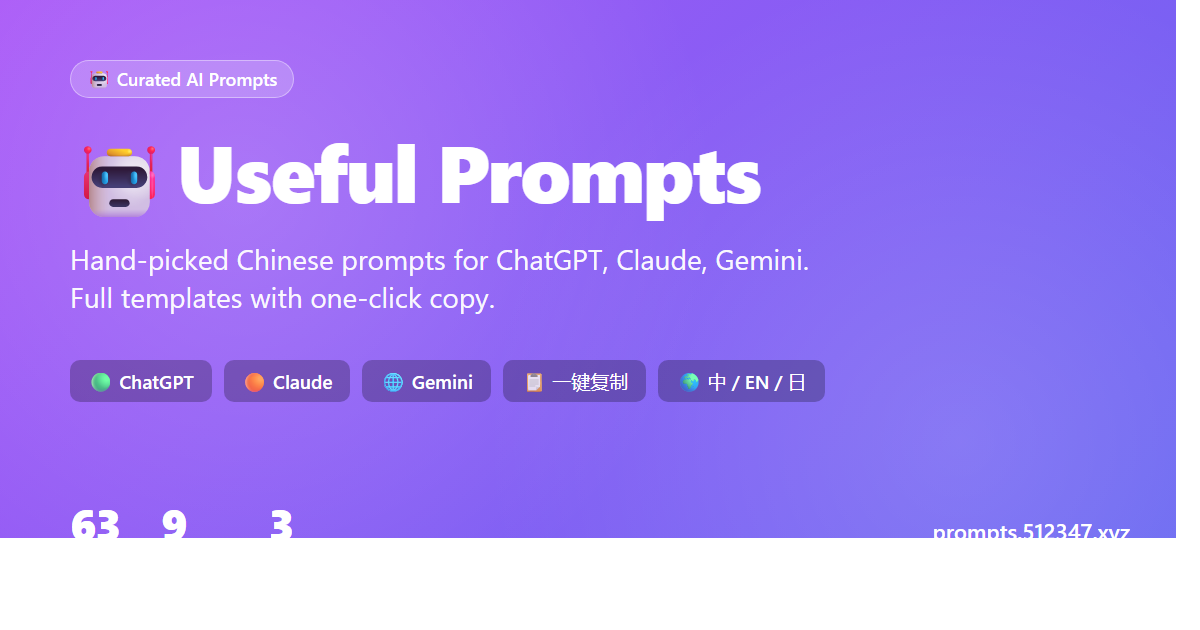
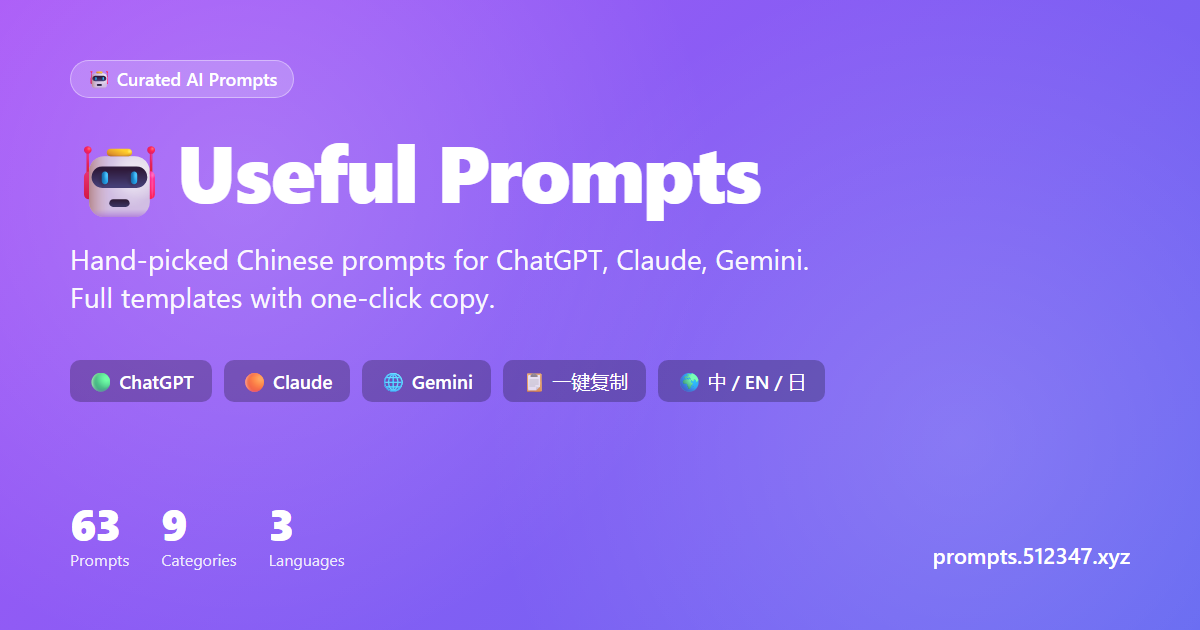
移除站点上的 GitHub 链接与用户名痕迹（隐私清理）
- 删 header GitHub 链接 + meta author
- footer 去除指向仓库的链接
- 重新生成 og-image.png（去掉图上 github.com/HowCanLove 字样）

Changed region(s): [[0.0, 0.0, 1.0, 1.0]]

diff --git a/index.html b/index.html
@@ -8,7 +8,6 @@
   -->
   <meta name="description" content="精选 AI 提示词集合（中 / EN / 日），按用途分类，附完整模板和一键复制；支持 ChatGPT / Claude / Gemini">
   <meta name="keywords" content="AI prompt, ChatGPT prompts, Claude prompts, AI 提示词, 中文 prompt, prompt 模板, プロンプト集">
-  <meta name="author" content="HowCanLove">
   <meta name="theme-color" content="#a855f7">
   <link rel="canonical" href="https://prompts.512347.xyz/">
   <title>Useful Prompts · Curated ChatGPT / Claude / Gemini Templates</title>
@@ -57,10 +56,6 @@
     <div class="header-inner">
       <h1 class="site-title" data-i18n="site.title">🛠 Useful Prompts</h1>
       <p class="site-tagline" data-i18n="site.tagline">Curated ChatGPT / Claude / Gemini prompts · 一键复制即用</p>
-      <a class="header-link" href="https://github.com/howcanlove/useful-prompts" target="_blank" rel="noopener">
-        <svg height="20" viewBox="0 0 16 16" width="20" fill="currentColor"><path d="M8 0C3.58 0 0 3.58 0 8c0 3.54 2.29 6.53 5.47 7.59.4.07.55-.17.55-.38 0-.19-.01-.82-.01-1.49-2.01.37-2.53-.49-2.69-.94-.09-.23-.48-.94-.82-1.13-.28-.15-.68-.52-.01-.53.63-.01 1.08.58 1.23.82.72 1.21 1.87.87 2.33.66.07-.52.28-.87.51-1.07-1.78-.2-3.64-.89-3.64-3.95 0-.87.31-1.59.82-2.15-.08-.2-.36-1.02.08-2.12 0 0 .67-.21 2.2.82.64-.18 1.32-.27 2-.27.68 0 1.36.09 2 .27 1.53-1.04 2.2-.82 2.2-.82.44 1.1.16 1.92.08 2.12.51.56.82 1.27.82 2.15 0 3.07-1.87 3.75-3.65 3.95.29.25.54.73.54 1.48 0 1.07-.01 1.93-.01 2.2 0 .21.15.46.55.38A8.013 8.013 0 0016 8c0-4.42-3.58-8-8-8z"/></svg>
-        <span data-i18n="header.github">GitHub</span>
-      </a>
     </div>
   </header>
 

diff --git a/app.js b/app.js
@@ -503,7 +503,7 @@ function loadCategory() {    try {      const saved = localStorage.getItem(CATEG
 
     const footer = document.getElementById('footerText');
     if (footer) {
-      const linkHTML = `<a href="https://github.com/HowCanLove/useful-software/edit/main/data.js" target="_blank" rel="noopener">${t('footer.linkText')}</a>`;
+      const linkHTML = t('footer.linkText');
       footer.innerHTML = t('footer.text', { link: linkHTML, n: CATALOG.length });
     }
 

diff --git a/scripts/og-template.html b/scripts/og-template.html
@@ -49,7 +49,6 @@
   </div>
   <div class="url">
     prompts.512347.xyz
-    <small>github.com/HowCanLove/useful-prompts</small>
   </div>
 </body>
 </html>
